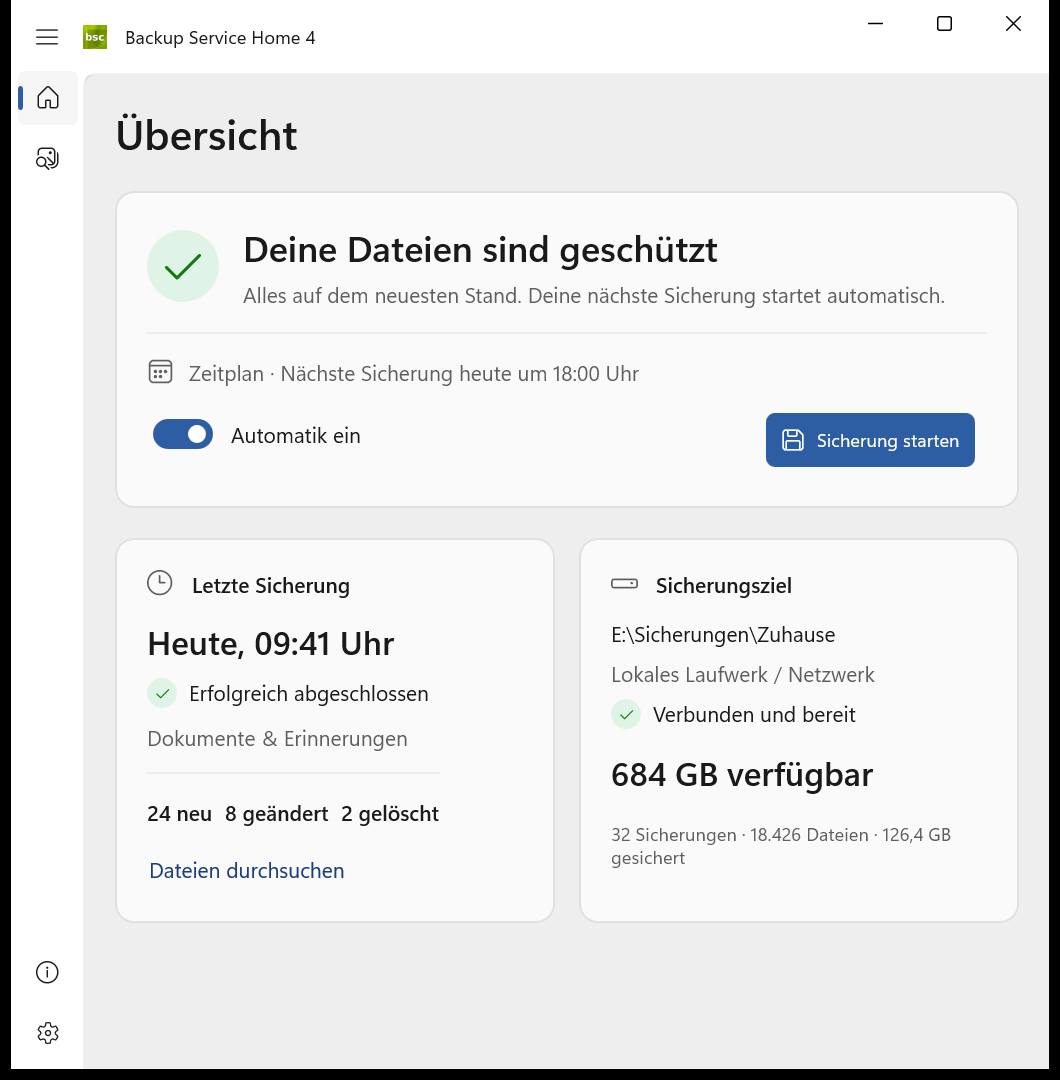
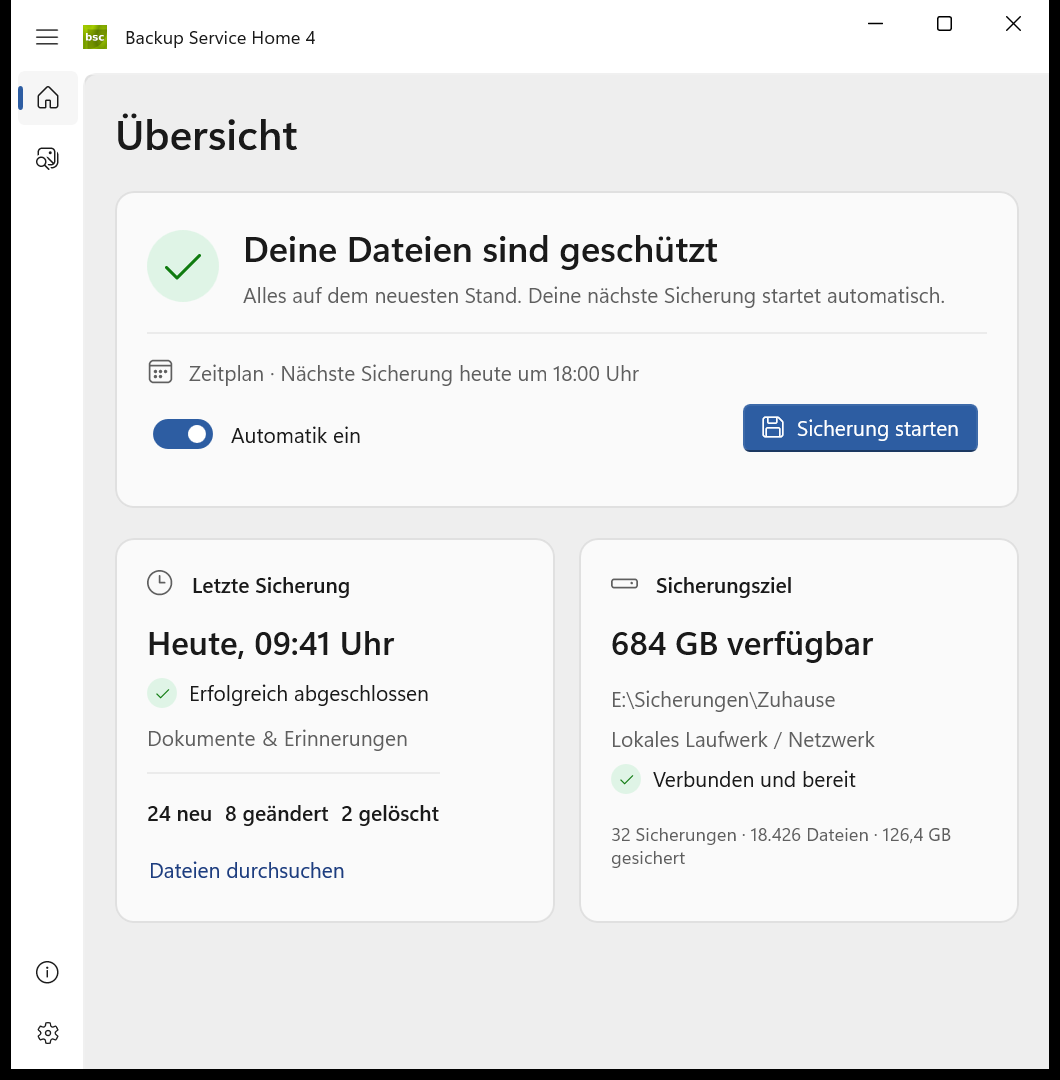
Record final council results and polish overview actions

Changed region(s): [[0.5604, 0.5806, 0.8406, 0.7333], [0.6849, 0.3667, 0.934, 0.4583]]

diff --git a/src/BSH.MainApp/Views/MainPage.xaml b/src/BSH.MainApp/Views/MainPage.xaml
@@ -182,15 +182,22 @@
                                                   OffContent="{helpers:ResourceString Name=Overview_SystemOff}"
                                                   ToolTipService.ToolTip="{helpers:ResourceString Name=MainView_SystemToggle}" />
                                 </CommandBar.Content>
-                                <AppBarButton Icon="Save" CornerRadius="6" Padding="12,4"
-                                              Visibility="{x:Bind views:MainPage.Invert(ViewModel.HasActionItems), Mode=OneWay}"
-                                              Background="{ThemeResource AccentFillColorDefaultBrush}"
-                                              Foreground="{ThemeResource TextOnAccentFillColorPrimaryBrush}"
-                                              Label="{helpers:ResourceString Name=MainView_StartBackup}"
-                                              Command="{x:Bind ViewModel.StartManualBackupCommand}" />
-                                <AppBarButton Icon="Save" Label="{helpers:ResourceString Name=MainView_StartBackup}"
-                                              Visibility="{x:Bind ViewModel.HasActionItems, Mode=OneWay}"
-                                              Command="{x:Bind ViewModel.StartManualBackupCommand}" />
+                                <AppBarElementContainer Visibility="{x:Bind views:MainPage.Invert(ViewModel.HasActionItems), Mode=OneWay}">
+                                    <Button Style="{StaticResource AccentButtonStyle}" Command="{x:Bind ViewModel.StartManualBackupCommand}">
+                                        <StackPanel Orientation="Horizontal" Spacing="8">
+                                            <FontIcon FontSize="16" Glyph="&#xE74E;" />
+                                            <TextBlock FontSize="14" Text="{helpers:ResourceString Name=MainView_StartBackup}" />
+                                        </StackPanel>
+                                    </Button>
+                                </AppBarElementContainer>
+                                <AppBarElementContainer Visibility="{x:Bind ViewModel.HasActionItems, Mode=OneWay}">
+                                    <Button Command="{x:Bind ViewModel.StartManualBackupCommand}">
+                                        <StackPanel Orientation="Horizontal" Spacing="8">
+                                            <FontIcon FontSize="16" Glyph="&#xE74E;" />
+                                            <TextBlock FontSize="14" Text="{helpers:ResourceString Name=MainView_StartBackup}" />
+                                        </StackPanel>
+                                    </Button>
+                                </AppBarElementContainer>
                             </CommandBar>
                         </Grid>
                         <Grid Visibility="{x:Bind ViewModel.ProgressGridVisibility, Mode=OneWay}"
@@ -296,8 +303,15 @@
                                 <TextBlock FontWeight="SemiBold" AutomationProperties.HeadingLevel="Level2"
                                            Text="{helpers:ResourceString Name=Overview_Location_Header}" />
                             </StackPanel>
+                            <StackPanel Spacing="6">
+                                <TextBlock FontSize="22" FontWeight="SemiBold" TextWrapping="Wrap"
+                                           Text="{x:Bind ViewModel.FreeSpaceText, Mode=OneWay}" />
+                                <TextBlock Foreground="{ThemeResource SystemFillColorCautionBrush}" TextWrapping="Wrap"
+                                           Text="{x:Bind ViewModel.FreeSpaceHint, Mode=OneWay}"
+                                           Visibility="{x:Bind ViewModel.IsFreeSpaceLow, Mode=OneWay}" />
+                            </StackPanel>
                             <StackPanel Spacing="8">
-                                <TextBlock FontSize="14" TextTrimming="CharacterEllipsis"
+                                <TextBlock Style="{StaticResource OverviewLabelStyle}" TextWrapping="NoWrap" TextTrimming="CharacterEllipsis"
                                            Text="{x:Bind ViewModel.LocationPath, Mode=OneWay}"
                                            ToolTipService.ToolTip="{x:Bind ViewModel.LocationPath, Mode=OneWay}" />
                                 <TextBlock Style="{StaticResource OverviewLabelStyle}"
@@ -313,13 +327,6 @@
                                     <TextBlock Grid.Column="1" TextWrapping="Wrap"
                                                Text="{x:Bind ViewModel.LocationConnectionText, Mode=OneWay}" />
                                 </Grid>
-                            </StackPanel>
-                            <StackPanel Spacing="6">
-                                <TextBlock FontSize="22" FontWeight="SemiBold" TextWrapping="Wrap"
-                                           Text="{x:Bind ViewModel.FreeSpaceText, Mode=OneWay}" />
-                                <TextBlock Foreground="{ThemeResource SystemFillColorCautionBrush}" TextWrapping="Wrap"
-                                           Text="{x:Bind ViewModel.FreeSpaceHint, Mode=OneWay}"
-                                           Visibility="{x:Bind ViewModel.IsFreeSpaceLow, Mode=OneWay}" />
                             </StackPanel>
                             <TextBlock Style="{StaticResource OverviewLabelStyle}" FontSize="12"
                                        Margin="0,4,0,0" Text="{x:Bind ViewModel.TotalsText, Mode=OneWay}" />

diff --git a/docs/design/overview/README.md b/docs/design/overview/README.md
@@ -20,8 +20,8 @@ deterministic sample data and window size, captured from the real WinUI app.
 2. **Status and actions:** status gets a clear visual lead; the schedule, system
    toggle and primary backup command move next to it. Warnings put their corrective
    action first; live progress, file counts and cancel stay inside the status card.
-3. **Backup details:** the backup time and result lead; change counts are quieter
-   with stronger, closely grouped change counts and a dedicated browse link.
+3. **Backup details:** the backup time and result lead, followed by stronger,
+   closely grouped change counts and a dedicated browse link.
 4. **Storage:** the path and available space are easier to find; secondary labels
    step back. Lifetime totals live in the storage card with comfortable padding.
 
@@ -62,11 +62,17 @@ do not include a target score. [Round 1 screenshots](round-1/) are preserved.
 
 | Reviewer | Round 1 | Round 2 |
 | --- | --- | --- |
-| GPT-6.1 Sol | 8/10 | pending |
-| Grok 4.7 | 7/10 | pending |
-| Opus 5.5 | 6.5/10 | pending |
+| GPT-6.1 Sol | 8/10 | 8/10 |
+| Grok 4.7 | 7/10 | 8/10 |
+| Opus 5.5 | 6.5/10 | 7.5/10 |
 
 The second pass consolidates progress and warning actions in the status card,
 keeps storage visible in the reviewed narrow window, simplifies typography,
-strengthens the change counts, and cleans up the dark success tint. Round 2 is
-the final review under the requested two-round limit.
+strengthens the change counts, and cleans up the dark success tint. All three
+final reviewers said ready to ship. Review stopped after two rounds;
+Opus remained below the requested score. [Round 2 screenshots](round-2/) preserve
+the exact set that received these scores.
+
+After round 2, two minor suggestions were applied: normal body-size native backup
+buttons and free space first in the storage card, with a secondary path. The main
+screenshot set includes that final polish; it was not re-scored by the council.
